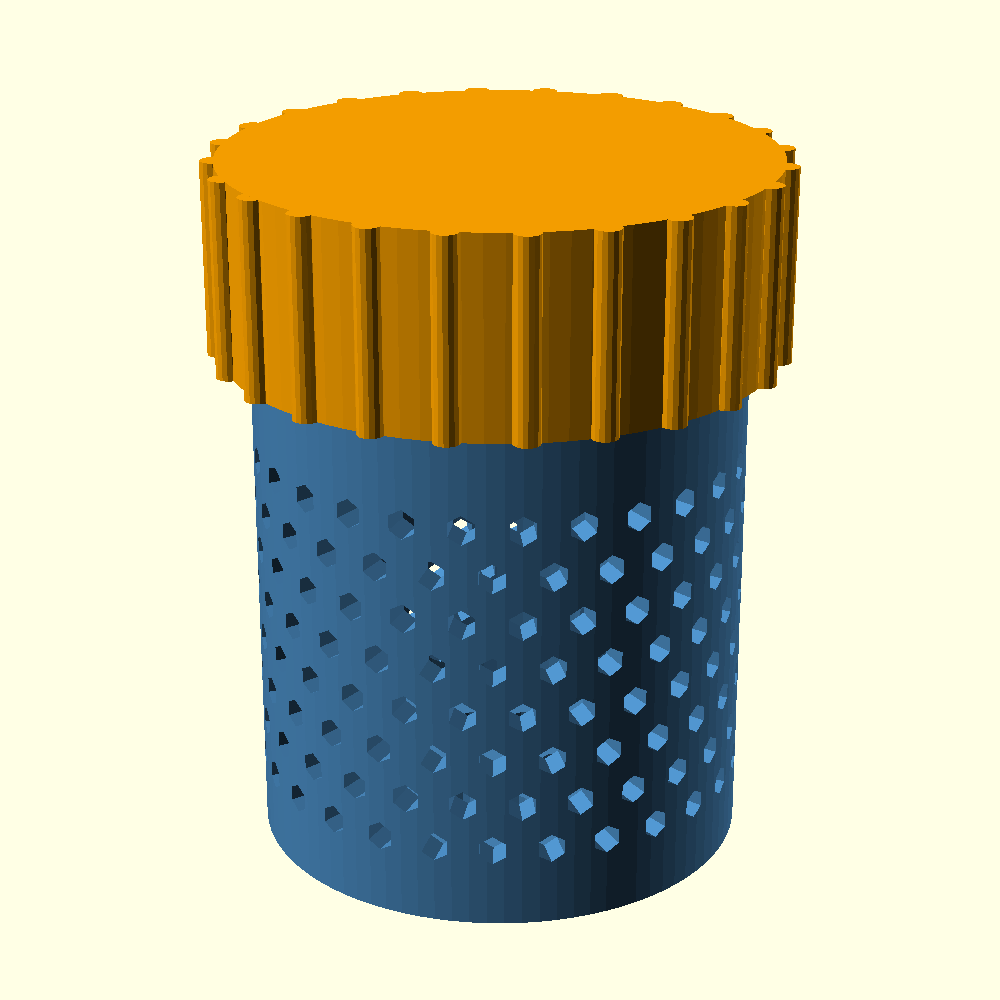
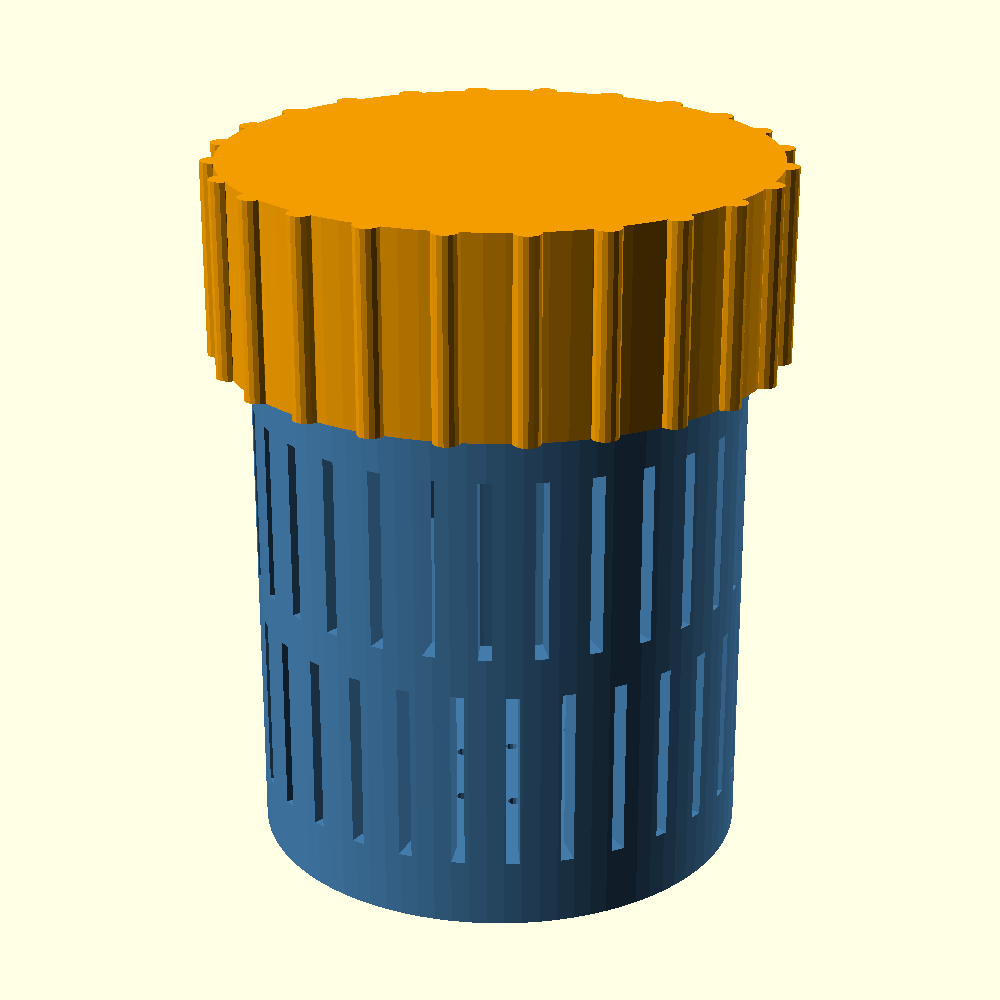
Update design: desiccant-capsule (review round 2)
Bead spec revised to indicating silica gel, 1-3 mm (bead_min = 1.0).

- Vents reworked: default is now 0.8 mm vertical slots with 2.4 mm
  webs in two staggered bands (sub-1 mm hex holes seal shut on a
  0.4 mm nozzle; narrow slots print crisply). Hex remains available.
- Open-area echo added, computed from the same pattern variables the
  geometry cuts with: wall 501.1 mm2 (22.2% of band) vs 454.6 mm2
  before (+10.2%, within the 15% budget); before/after in NOTES.md.
- Previews regenerated; vent close-up added at printable scale.
- Thread, lid, and body envelope unchanged.

Claude-Session: https://claude.ai/code/session_01XcwAZSEytKocPRq4uEY7DU

Changed region(s): [[0.248, 0.434, 0.744, 0.868]]

diff --git a/designs/desiccant-capsule/NOTES.md b/designs/desiccant-capsule/NOTES.md
@@ -8,6 +8,11 @@
 |---|---|
 | ![Assembly](previews/assembly.png) | ![Cutaway](previews/cutaway.png) |
 
+![Vent close-up](previews/vents-closeup.png)
+
+Vent close-up at printable scale: 0.8 mm slots, 2.4 mm webs (3 x the
+0.8 mm minimum feature).
+
 The cutaway faces the cut plane: male ribs (body) interleave the female
 grooves (lid) with the thread_tol clearance visible as the zigzag gap;
 the lid rim seats on the body shoulder below the threads.
@@ -22,7 +27,9 @@ with dry-box gloves on. Must print on FDM with no supports on either part.
 ## Given measurements
 
 - Body: ~30 mm outer diameter, ~40 mm tall (defaults: 30 x 40).
-- Silica gel beads: 2-3 mm diameter — every opening must be < 2 mm.
+- Silica gel beads: originally 2-3 mm; **revised in PR review round 2 to
+  indicating silica gel, 1-3 mm** — every opening must retain a worn
+  1 mm bead (effective opening <= 0.8 mm at the default margin).
 
 ## Key decisions
 
@@ -30,11 +37,14 @@ with dry-box gloves on. Must print on FDM with no supports on either part.
   `assembly`, `cutaway`). Default is `print` (both parts laid out) so
   `render.sh` emits a directly sliceable STL. `assembly`/`cutaway` are
   review views; the cutaway shows thread engagement.
-- **Vents**: `vent_style="hex"` (default) or `"slot"`. Hexes are
-  vertex-up so wall openings print supportless (30 deg from vertical);
-  slots bridge only their own 1.8 mm width. Default opening `vent_w=1.8`
-  across corners → inscribed width ~1.56 mm, safely below 2 mm beads.
-  Floor is perforated too (`floor_vents=true`), plain first-layer holes.
+- **Vents**: `vent_style="slot"` (default) or `"hex"`. Default is
+  0.8 mm-wide vertical slots with 2.4 mm webs, in two staggered bands.
+  Slots became the default in review round 2 when the bead spec dropped
+  to 1 mm: sub-1 mm hex holes tend to seal shut on a 0.4 mm FDM nozzle,
+  while narrow vertical slots print crisply (each slot bridges only its
+  own 0.8 mm width). Hex (vertex-up, supportless) remains available for
+  coarser beads. Floor is perforated too (`floor_vents=true`), plain
+  first-layer holes.
 - **Threads**: custom trapezoidal helical polyhedron (2-start, 4 mm pitch
   → 8 mm lead, lid opens in ~1 turn; depth 1.2 mm). Flanks are exactly
   45 deg so the male thread prints supportless upright. BOSL2 screws.scad
@@ -88,9 +98,10 @@ form makes it exact.)
 
 ## Bead containment guard
 
-Openings are guarded by `assert()` against `bead_min = 2.0` minus
-`bead_margin = 0.2` (beads shed size over repeated drying cycles). A bead
-passes an opening iff it fits the opening's inscribed circle:
+Openings are guarded by `assert()` against `bead_min = 1.0` (indicating
+silica, 1-3 mm grade) minus `bead_margin = 0.2` (beads shed size over
+repeated drying cycles). A bead passes an opening iff it fits the
+opening's inscribed circle:
 
 - hex vents (vertex-up): inscribed width = `vent_w*cos(30)` ~= 0.87*vent_w
 - slot vents: slot width = `vent_w`
@@ -98,7 +109,24 @@ passes an opening iff it fits the opening's inscribed circle:
 
 Both wall styles and the floor holes are checked; a `vent_w` that could
 leak a worn bead fails the render with a message saying the allowed
-maximum. Defaults (hex 1.56 mm effective, slot/floor 1.8 mm) pass.
+maximum. Defaults (slot/floor 0.8 mm) pass at exactly the limit. The
+round-1 hex defaults (1.8 mm) correctly fail under this spec — that
+rejection is what forced the round-2 vent rework.
+
+## Vent open-area accounting
+
+Reported by `echo` at render time, computed from the same variables the
+geometry modules cut with (`vcols`, `slot_nseg`, `slot_seg`, `hex_rows`,
+`fl_counts`):
+
+| | Wall open area | % of vent band | Floor | Total |
+|---|---|---|---|---|
+| Round 1 (hex 1.8 / web 1.6) | 454.6 mm² | 20.1% | 53.4 mm² | 508.0 mm² |
+| Round 2 (slot 0.8 / web 2.4) | 501.1 mm² | 22.2% | 10.6 mm² | 511.7 mm² |
+
+Wall-only change: +10.2%; wall+floor: +0.7% — both within the 15%
+budget. The band is the 24 mm-tall perforated zone (pi * 30 * 24 =
+2262 mm²).
 
 ## Print orientation
 
@@ -114,4 +142,6 @@ Both parts and the closed assembly CGAL-render clean; thread engagement
 verified in the committed cutaway preview (uniform thread_tol gap at
 crests, roots, and flank normals; flanks interleaved). Review round 1
 (previews committed, clearance derivation, bead-containment asserts)
-addressed on the PR thread.
+and round 2 (1 mm bead spec: slot vent rework + open-area accounting)
+addressed on the PR thread. Thread, lid, and body envelope unchanged
+since round 1.
